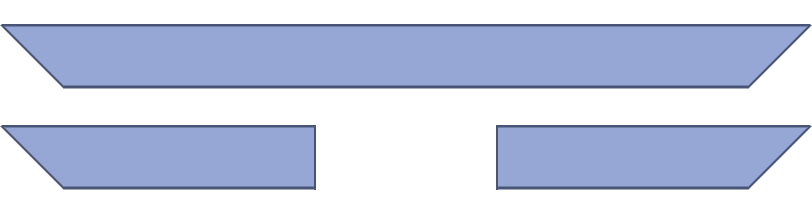
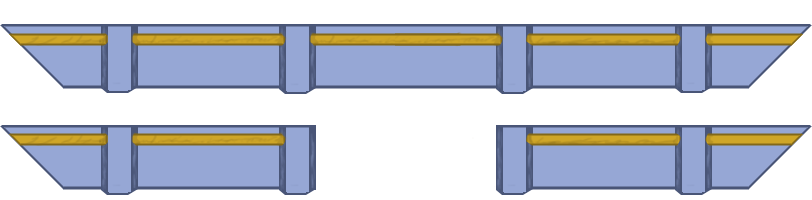
Added sprites and control updates

Changed region(s): [[0.0, 0.12, 0.9852, 0.48], [0.0, 0.63, 0.4002, 0.99], [0.6158, 0.63, 1.0, 0.99]]

diff --git a/Assets/05-InputCapture/InputCapture.cs b/Assets/05-InputCapture/InputCapture.cs
@@ -5,19 +5,58 @@ using UnityEngine;
 public class InputCapture {
 
 	public static float hThrow, vThrow, hAim, vAim;
-	public static bool pickup, back, fireLeftDown, fireRightDown, firingLeft, firingRight, pause;
+	public static bool pickup, back, fireLeftDown, fireRightDown, firingLeft, firingRight, pause, triggerRight, triggerLeft;
+	static bool mouseIsFiringLeft, mouseIsFiringRight;
 
 	public static void InputCheck()
 	{
 		hThrow = Input.GetAxis("Horizontal");
-		vThrow = Input.GetAxis("Vertical");
-		fireLeftDown = Input.GetButtonDown("Fire1");
-		fireRightDown = Input.GetButtonDown("Fire2");
-		firingLeft = Input.GetButton("Fire1");
-		firingRight = Input.GetButton("Fire2");
+		vThrow = Input.GetAxis("Vertical");		
 		pickup = Input.GetButtonDown("Pickup");
 		back = Input.GetButtonDown("Submit");
 		pause = Input.GetButtonDown("Cancel");
+		// Joystick Controls
+		if (!GameManager.mouseInput)
+		{
+			fireLeftDown = Input.GetButtonDown("Fire1");
+			fireRightDown = Input.GetButtonDown("Fire2");
+			firingLeft = Input.GetButton("Fire1");
+			firingRight = Input.GetButton("Fire2");
+			triggerLeft = (Input.GetAxis("TriggerL") != 0);
+			triggerRight = (Input.GetAxis("TriggerR") != 0);
+		}
+		else
+		{
+			if (!Input.GetButton("RangeToggle"))
+			{
+				Debug.Log("running this");
+				fireLeftDown = Input.GetButtonDown("Fire1");
+				fireRightDown = Input.GetButtonDown("Fire2");
+				firingLeft = Input.GetButton("Fire1");
+				firingRight = Input.GetButton("Fire2");
+				if (mouseIsFiringLeft)
+				{
+					triggerLeft = Input.GetButton("Fire1");
+					if (!triggerLeft)
+						mouseIsFiringLeft = false;
+				}
+				if (mouseIsFiringRight)
+				{
+					triggerRight = Input.GetButton("Fire2");
+					if (!triggerRight)
+						mouseIsFiringRight = false;
+				}
+			}
+			else
+			{
+				triggerLeft = (Input.GetAxis("Fire1") != 0);
+				if (triggerLeft)
+					mouseIsFiringLeft = true;
+				triggerRight = (Input.GetAxis("Fire2") != 0);
+				if (triggerRight)
+					mouseIsFiringRight = true;
+			}
+		}
 	}
 
 	public static void ControllerAim()

diff --git a/Assets/02-game/05-Animations/RobotArmsAnim.cs b/Assets/02-game/05-Animations/RobotArmsAnim.cs
@@ -90,23 +90,22 @@ public class RobotArmsAnim : MonoBehaviour {
 	{
 		if (armLocation == 2)
 		{
-			return InputCapture.firingLeft;
+			return InputCapture.triggerLeft;
 		}
 		else
 		{
-			return InputCapture.firingRight;
+			return InputCapture.triggerRight;
 		}
 	}
 	public void PlayerTracking()
 	{
-		if (PlayerMelee() && (roLo.loadout[armLocation].itemType == ItemType.melee || (roLo.power[armLocation] <= 0 || roLo.hitPoints[armLocation] <= 0)))
+		if (PlayerMelee())
 		{
 			anim.SetBool("attackingMelee", true);
 			attack.StopMovementCheck();
 		}
 		if (PlayerRanged() && roLo.loadout[armLocation].itemType == ItemType.range && (roLo.power[armLocation] > 0 && roLo.hitPoints[armLocation] > 0))
 		{
-			print("doing this");
 			anim.SetBool("attackingRange", true);
 		}
 		else if ((!PlayerRanged() && roLo.loadout[armLocation].itemType == ItemType.range) || (roLo.power[armLocation] <= 0 || roLo.hitPoints[armLocation] <= 0))

diff --git a/Assets/02-game/00-PlayableCharacter/PlayerController.cs b/Assets/02-game/00-PlayableCharacter/PlayerController.cs
@@ -99,7 +99,7 @@ public class PlayerController : MonoBehaviour {
 		}
 		firingArc.eulerAngles = rotation;
 		// ATTACKING LEFT ARM
-		if (InputCapture.firingLeft && !fireLeft)
+		if (InputCapture.triggerLeft && !fireLeft)
 		{
 			if (roLo.loadout[2].itemType == ItemType.range && roLo.power[2] > 0)
 			{				
@@ -107,12 +107,12 @@ public class PlayerController : MonoBehaviour {
 			}
 			fireLeft = true;
 		}
-		else if (!InputCapture.firingLeft)
+		else if (!InputCapture.triggerLeft)
 		{
 			fireLeft = false;
 		}
 		// ATTACKING RIGHT ARM
-		if (InputCapture.firingRight  && !fireRight)
+		if (InputCapture.triggerRight && !fireRight)
 		{
 			if (roLo.loadout[3].itemType == ItemType.range && roLo.power[3] > 0)
 			{
@@ -120,7 +120,7 @@ public class PlayerController : MonoBehaviour {
 			}
 			fireRight = true;
 		}
-		else if (!InputCapture.firingRight)
+		else if (!InputCapture.triggerRight)
 		{
 			fireRight = false;			
 		}

diff --git a/Assets/02-game/08-Hub/Terminal/Terminal.cs b/Assets/02-game/08-Hub/Terminal/Terminal.cs
@@ -13,7 +13,6 @@ public class Terminal : MonoBehaviour {
 
 	void OnCollisionStay2D(Collision2D collision)
 	{
-		print("Colliding");
 		if (InputCapture.pickup && !GameManager.paused && collision.gameObject.CompareTag("Player") && !touchingMe)
 		{
             //PlayerPrefsManager.SetPointValue(1);
@@ -22,7 +21,6 @@ public class Terminal : MonoBehaviour {
             if(PlayerPrefsManager.GetPointValue() > 0)
             {
                 ui.pointsAvailable = true;
-                print("Points Available!");
             }
             else
             {

diff --git a/Assets/00-Managers/GameManager.cs b/Assets/00-Managers/GameManager.cs
@@ -22,8 +22,8 @@ public class GameManager : MonoBehaviour {
 	}
 	void Start()
 	{
-		RandomDropModifier = 0;
-		mouseInput = MouseCheck();
+		RandomDropModifier = 0;		
+		mouseInput = true;
 	}
 
 	private bool MouseCheck()
@@ -42,6 +42,8 @@ public class GameManager : MonoBehaviour {
 	void Update()
 	{
 		InputCapture.InputCheck();
+		print(InputCapture.triggerRight);
+		print(InputCapture.triggerLeft);
 	}
 
 	public static void GamePause(bool pause)

diff --git a/Assets/UserInterface.cs b/Assets/UserInterface.cs
@@ -65,7 +65,6 @@ public class UserInterface : MonoBehaviour {
 
 	public void ResumeGame()
 	{
-		print("running unpause");
 		PauseScreen.SetActive(false);
         TechTree.SetActive(false);
         TopBtns.SetActive(false);
@@ -77,7 +76,6 @@ public class UserInterface : MonoBehaviour {
 
 	public void PauseGame()
 	{
-		print("running pause");
 		GameManager.GamePause(true);
 		
 		TopBtns.SetActive(true);

diff --git a/Assets/RobotAttack.cs b/Assets/RobotAttack.cs
@@ -59,12 +59,10 @@ public class RobotAttack : MonoBehaviour {
 		if (armLocation == 2)
 		{
 			roLo.stopWhileAttackingLeft = mw.meleeWeaponStopMovement;
-			print(roLo.stopWhileAttackingLeft);
 		}
 		else
 		{
 			roLo.stopWhileAttackingRight = mw.meleeWeaponStopMovement;
-			print(roLo.stopWhileAttackingRight);
 		}
 	}
 
